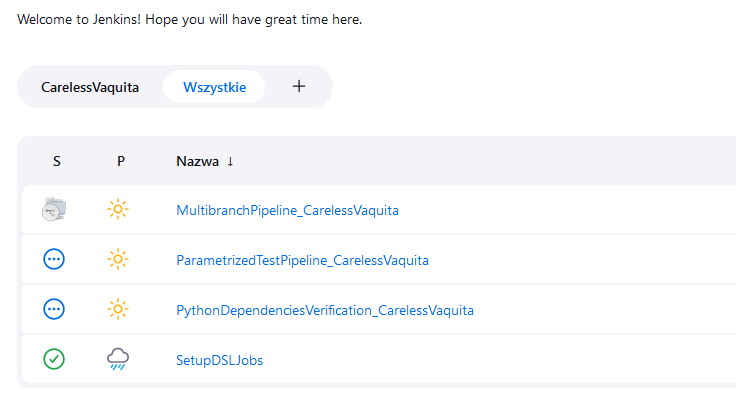
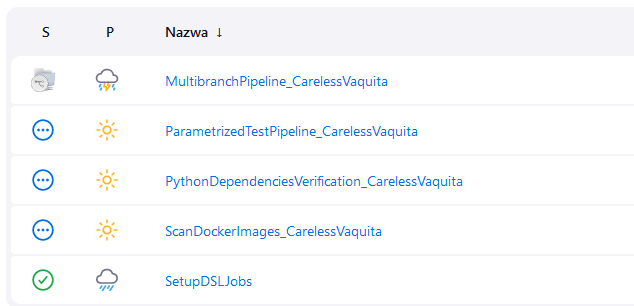
01042024-1843

diff --git a/README.md b/README.md
@@ -78,10 +78,12 @@ You should be able now to run your custom pipelines or the ones generated by Set
 
 <h3>SetupDSLJob</h3>
 
-After logging into your Jenkins instance there should be already one job ready to trigger, called "SetupDSLJobs". Build SetupDSLJobs with parameters, put your project name, GitHub url, and it will generate three base pipelines and one view that contains all of them in one place.
+After logging into your Jenkins instance there should be already one job ready to trigger, called "SetupDSLJobs". Build SetupDSLJobs with parameters, put your project name, GitHub url, and it will generate four base pipelines and one view that contains all of them in one place.
 
 ![SetupDSLJobs.png](doc/SetupDSLJobs.PNG)
 
+
+<b>NOTE:</b> It is not mandatory to run SetupDSLJobs on project, that is forked CarelessVaquita project. It is not even required to have the same files structure, but the only directory that <b>must</b> exist is <i>jobs</i>, where pipelines declaration should be defined.
 
 Happy Dugonging ;)  
 
